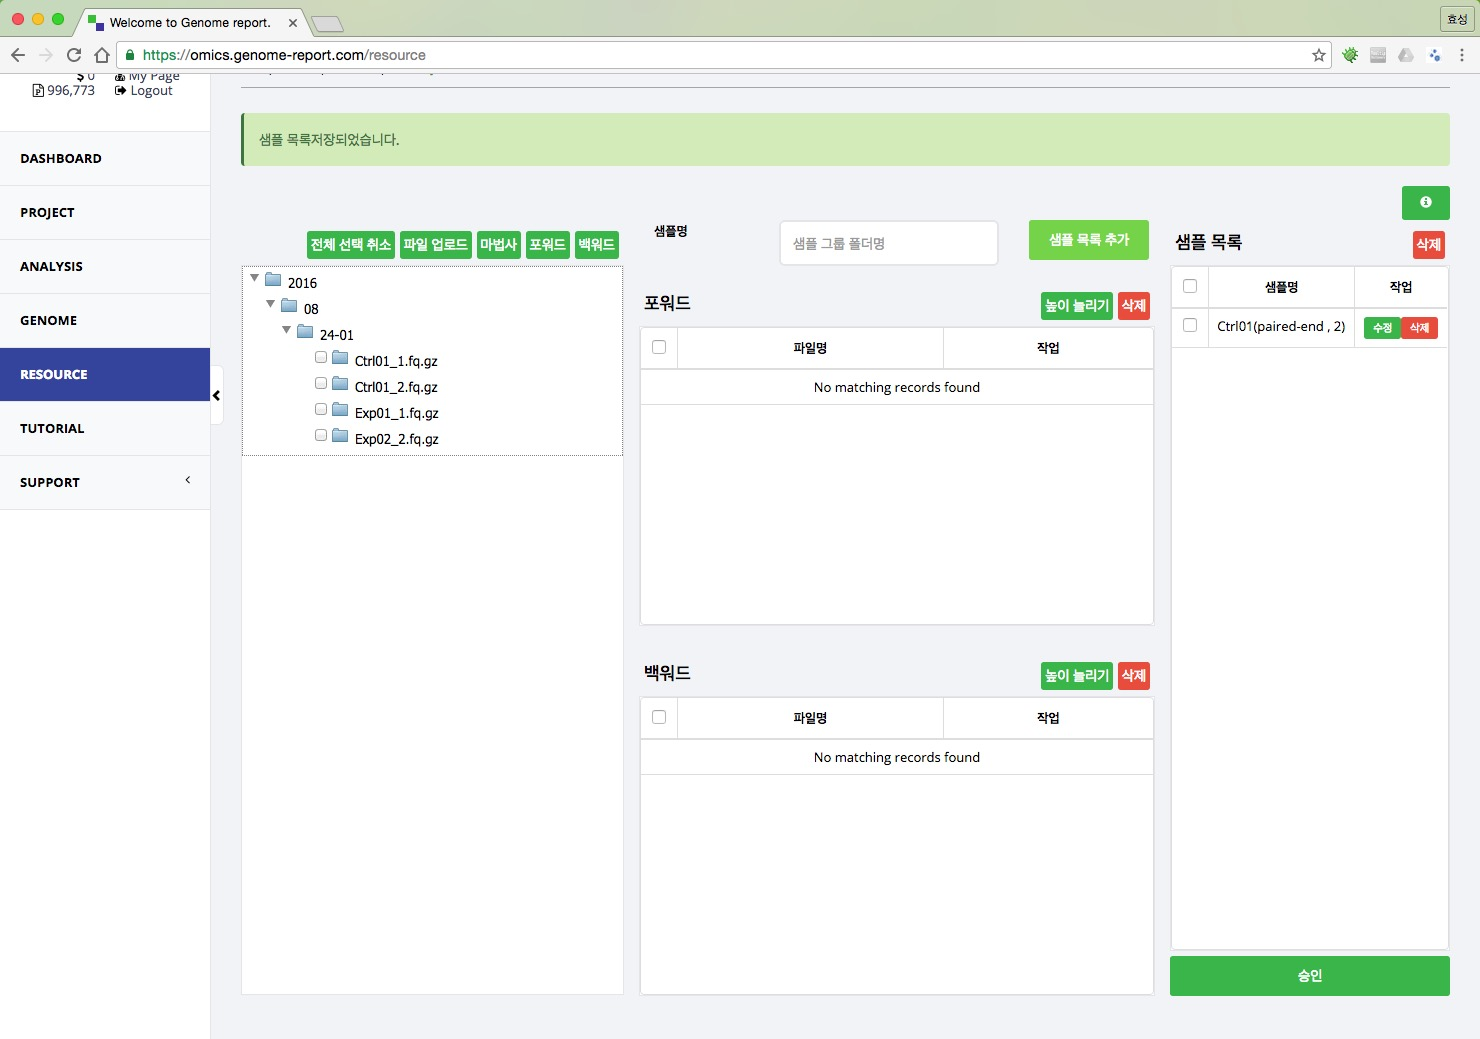
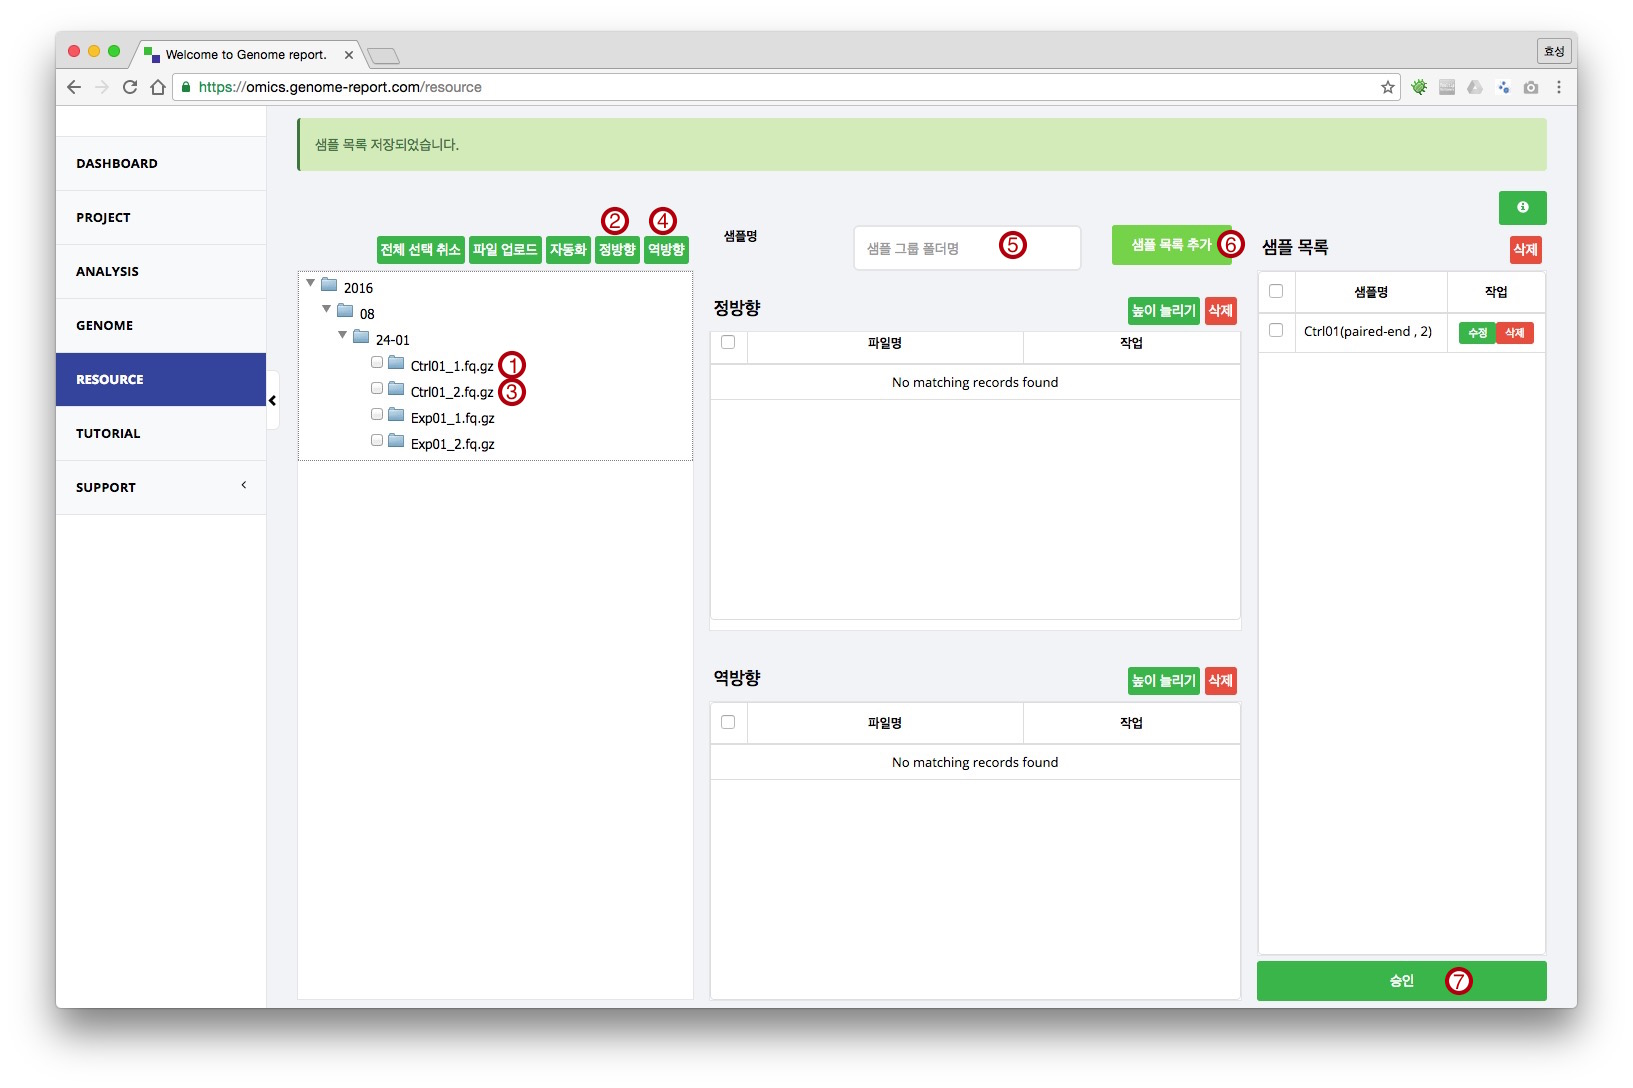
오자 수정

diff --git a/docs/quick_start/sample_register.md b/docs/quick_start/sample_register.md
@@ -28,7 +28,7 @@
         샘플명은 파일명을 이용하여 프로그램에서 부여하며, 사용자가 원하는 이름으로 변경할 수 있습니다.
 
 
-![화면](https://github.com/genomereport/gimanual/raw/master/docs/images/sample_screen_1.jpg)
+![화면](https://github.com/genomereport/gimanual/raw/master/docs/images/sample_forward.jpg)
 
 
 ## Step 3. 자동화를 통한 Exp01 샘플 등록
